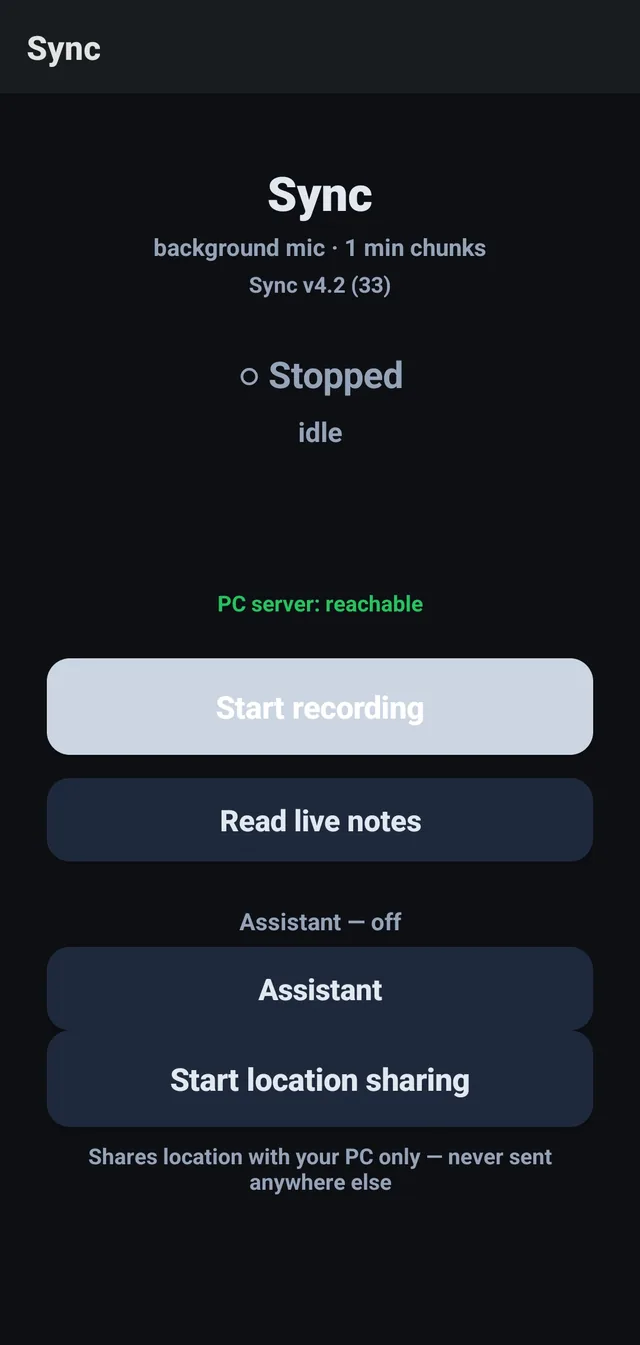
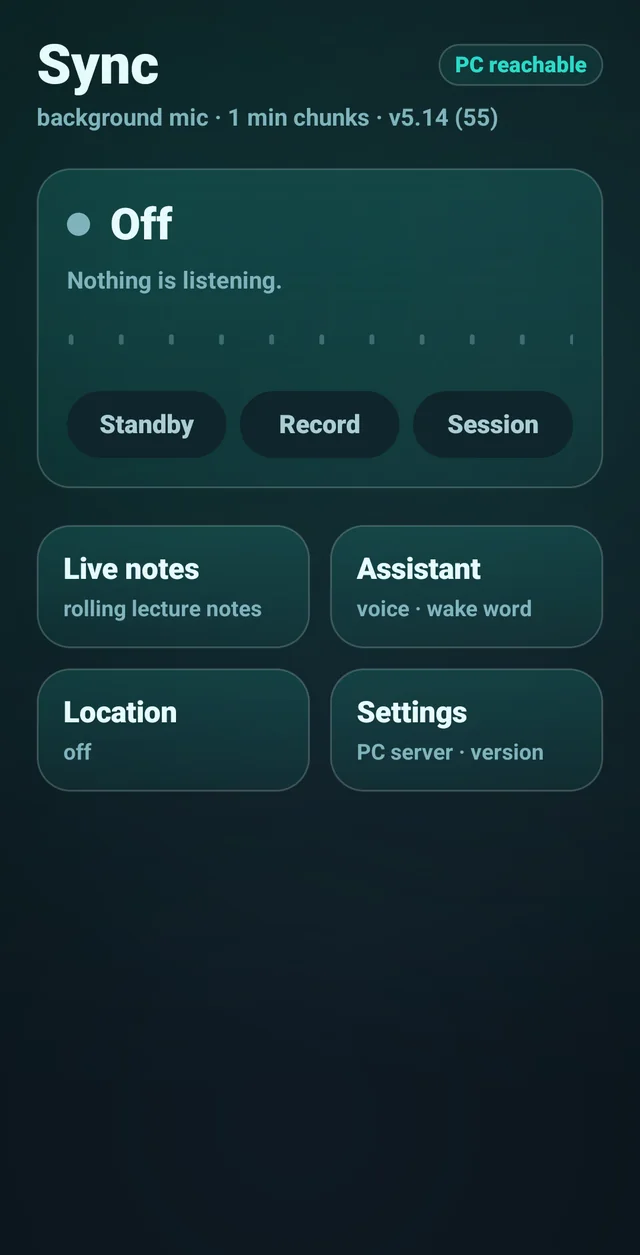
Refresh project stats and screenshots, add Notes app card, Fuel and Agenda minis

diff --git a/index.html b/index.html
@@ -211,20 +211,20 @@
         <div class="status live">Live</div>
         <h3>Lecture capture and automatic notes</h3>
         <p>A recorder runs on my phone through lectures and turns them into finished notes. It uploads in one-minute chunks, transcribes the speech, sorts it by topic, writes a daily document, then sends it back to the phone. The whole pipeline runs unattended as a Windows service.</p>
-        <p class="stats">47 lessons into one document <span>&middot;</span> 12 daily documents so far <span>&middot;</span> ~91% transcription accuracy</p>
+        <p class="stats">47 lessons into one document <span>&middot;</span> 13 daily documents so far <span>&middot;</span> ~91% transcription accuracy</p>
         <p class="note">I built the phone app, the transcription service, and the document pipeline that joins them.</p>
       </div>
     </article>
 
     <article class="card">
       <figure class="card-media">
-        <img src="assets/sync.webp" alt="The Sync app on Android: a record button, an assistant toggle, location sharing, and a status line reading 'PC server: reachable'.">
+        <img src="assets/sync.webp" alt="The Sync app on Android: a status card with Standby, Record and Session controls, and tiles for live notes, the assistant, location and settings.">
       </figure>
       <div class="card-body">
         <div class="status live">Live</div>
         <h3>Voice assistant, self-hosted</h3>
         <p>Ask a question with headphones in and hear the answer. It answers personal questions from my own notes, does live web lookups, reports my location and routes to it, and turns voice commands into reminders. The phone captures the audio, a service on my PC transcribes and answers, and the reply is spoken back.</p>
-        <p class="stats">778 logged exchanges <span>&middot;</span> ~1 second to answer <span>&middot;</span> speech in and out</p>
+        <p class="stats">5,700+ logged exchanges <span>&middot;</span> ~1 second to answer <span>&middot;</span> speech in and out</p>
         <p class="note">The tricky part was getting speech, lookups and my own notes to work together fast enough to be useful.</p>
       </div>
     </article>
@@ -237,8 +237,21 @@
         <div class="status">Built and in use</div>
         <h3>Resort, a spaced-repetition revision app</h3>
         <p>An Android app written from scratch for exam revision. I wrote all the card content myself: exam-level cards, spaced repetition on the SM-2 algorithm, an auto-graded multiple-choice mode, and full offline use.</p>
-        <p class="stats">607 cards across 13 decks <span>&middot;</span> 492 auto-graded questions <span>&middot;</span> fully offline</p>
+        <p class="stats">991 cards across 17 decks <span>&middot;</span> 748 auto-graded questions <span>&middot;</span> fully offline</p>
         <p class="note">The app and all the card content are mine.</p>
+      </div>
+    </article>
+
+    <article class="card">
+      <figure class="card-media">
+        <img src="assets/notes.webp" alt="The Notes app on Android: capture tabs for notes, reminders, ask and dump, a compose box, and tag filters.">
+      </figure>
+      <div class="card-body">
+        <div class="status">Built and in use</div>
+        <h3>Notes, a capture app that files itself</h3>
+        <p>A notes app for my phone, built because nothing else captured the way I think. I type one line and it files itself: rules first, a language model for the rest. Photos get read for their text, edits keep their history, and sensitive notes hide behind a PIN.</p>
+        <p class="stats">43 notes in its first week <span>&middot;</span> v2.32 <span>&middot;</span> auto-tags, OCR, version history</p>
+        <p class="note">The app, the server and the sorting logic are all mine.</p>
       </div>
     </article>
   </section>
@@ -264,7 +277,15 @@
       </div>
       <div class="mini">
         <h3>Home infrastructure</h3>
-        <p>A Windows PC and an Arch Linux laptop kept in sync over a private mesh, running 21 scheduled tasks, with remote access, file sync, backup, and watchdog scripts that repair the setup when something breaks.</p>
+        <p>A Windows PC and an Arch Linux laptop kept in sync over a private mesh, running 44 scheduled tasks, with remote access, file sync, backup, and watchdog scripts that repair the setup when something breaks.</p>
+      </div>
+      <div class="mini">
+        <h3>Fuel, calorie tracker</h3>
+        <p>An Android tracker: scan a barcode and the nutrition lands in today's total, photograph a label when there isn't one, one-tap meals for the regulars, and a home-screen widget.</p>
+      </div>
+      <div class="mini">
+        <h3>Agenda, week calendar</h3>
+        <p>A week-view calendar with natural-language entry: type "dentist tomorrow 3pm" and it parses the day and time. Reads and writes the same reminder store my assistant uses, and keeps working offline.</p>
       </div>
     </div>
   </section>
@@ -306,7 +327,7 @@
   </section>
 
   <footer>
-    <p>Last updated September 2026.</p>
+    <p>Last updated 23 September 2026.</p>
   </footer>
 
 </div>
